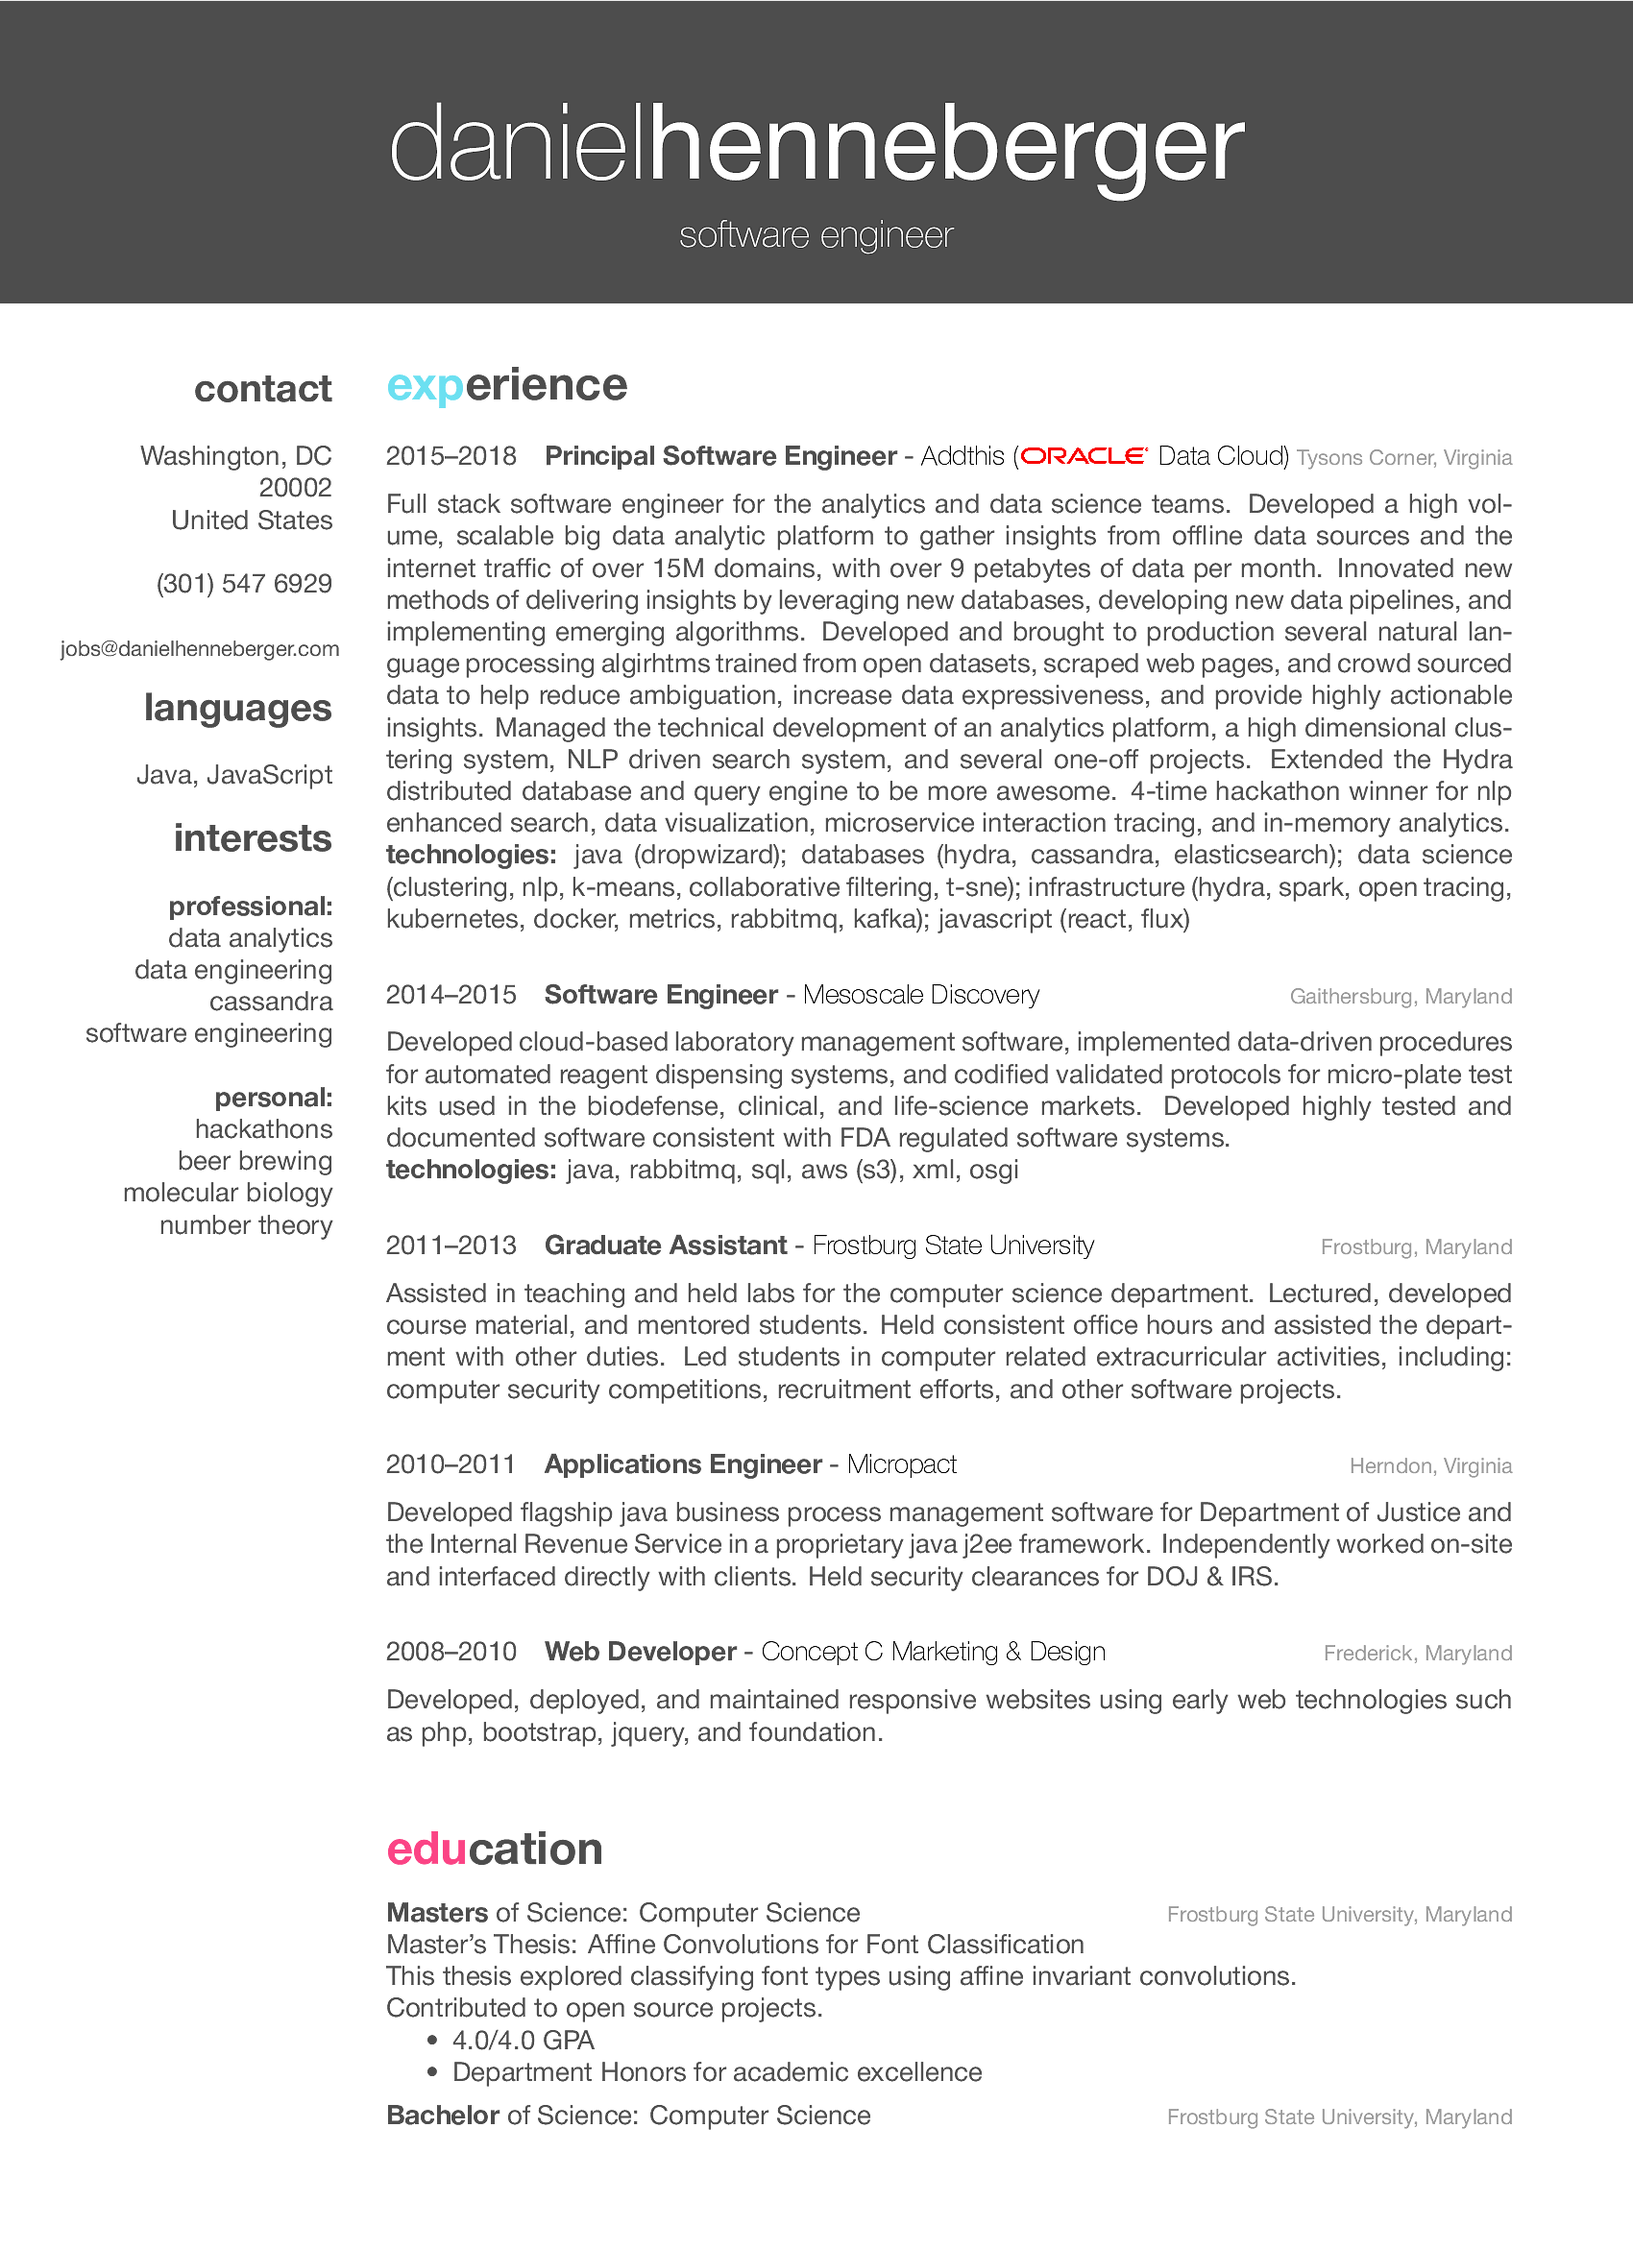
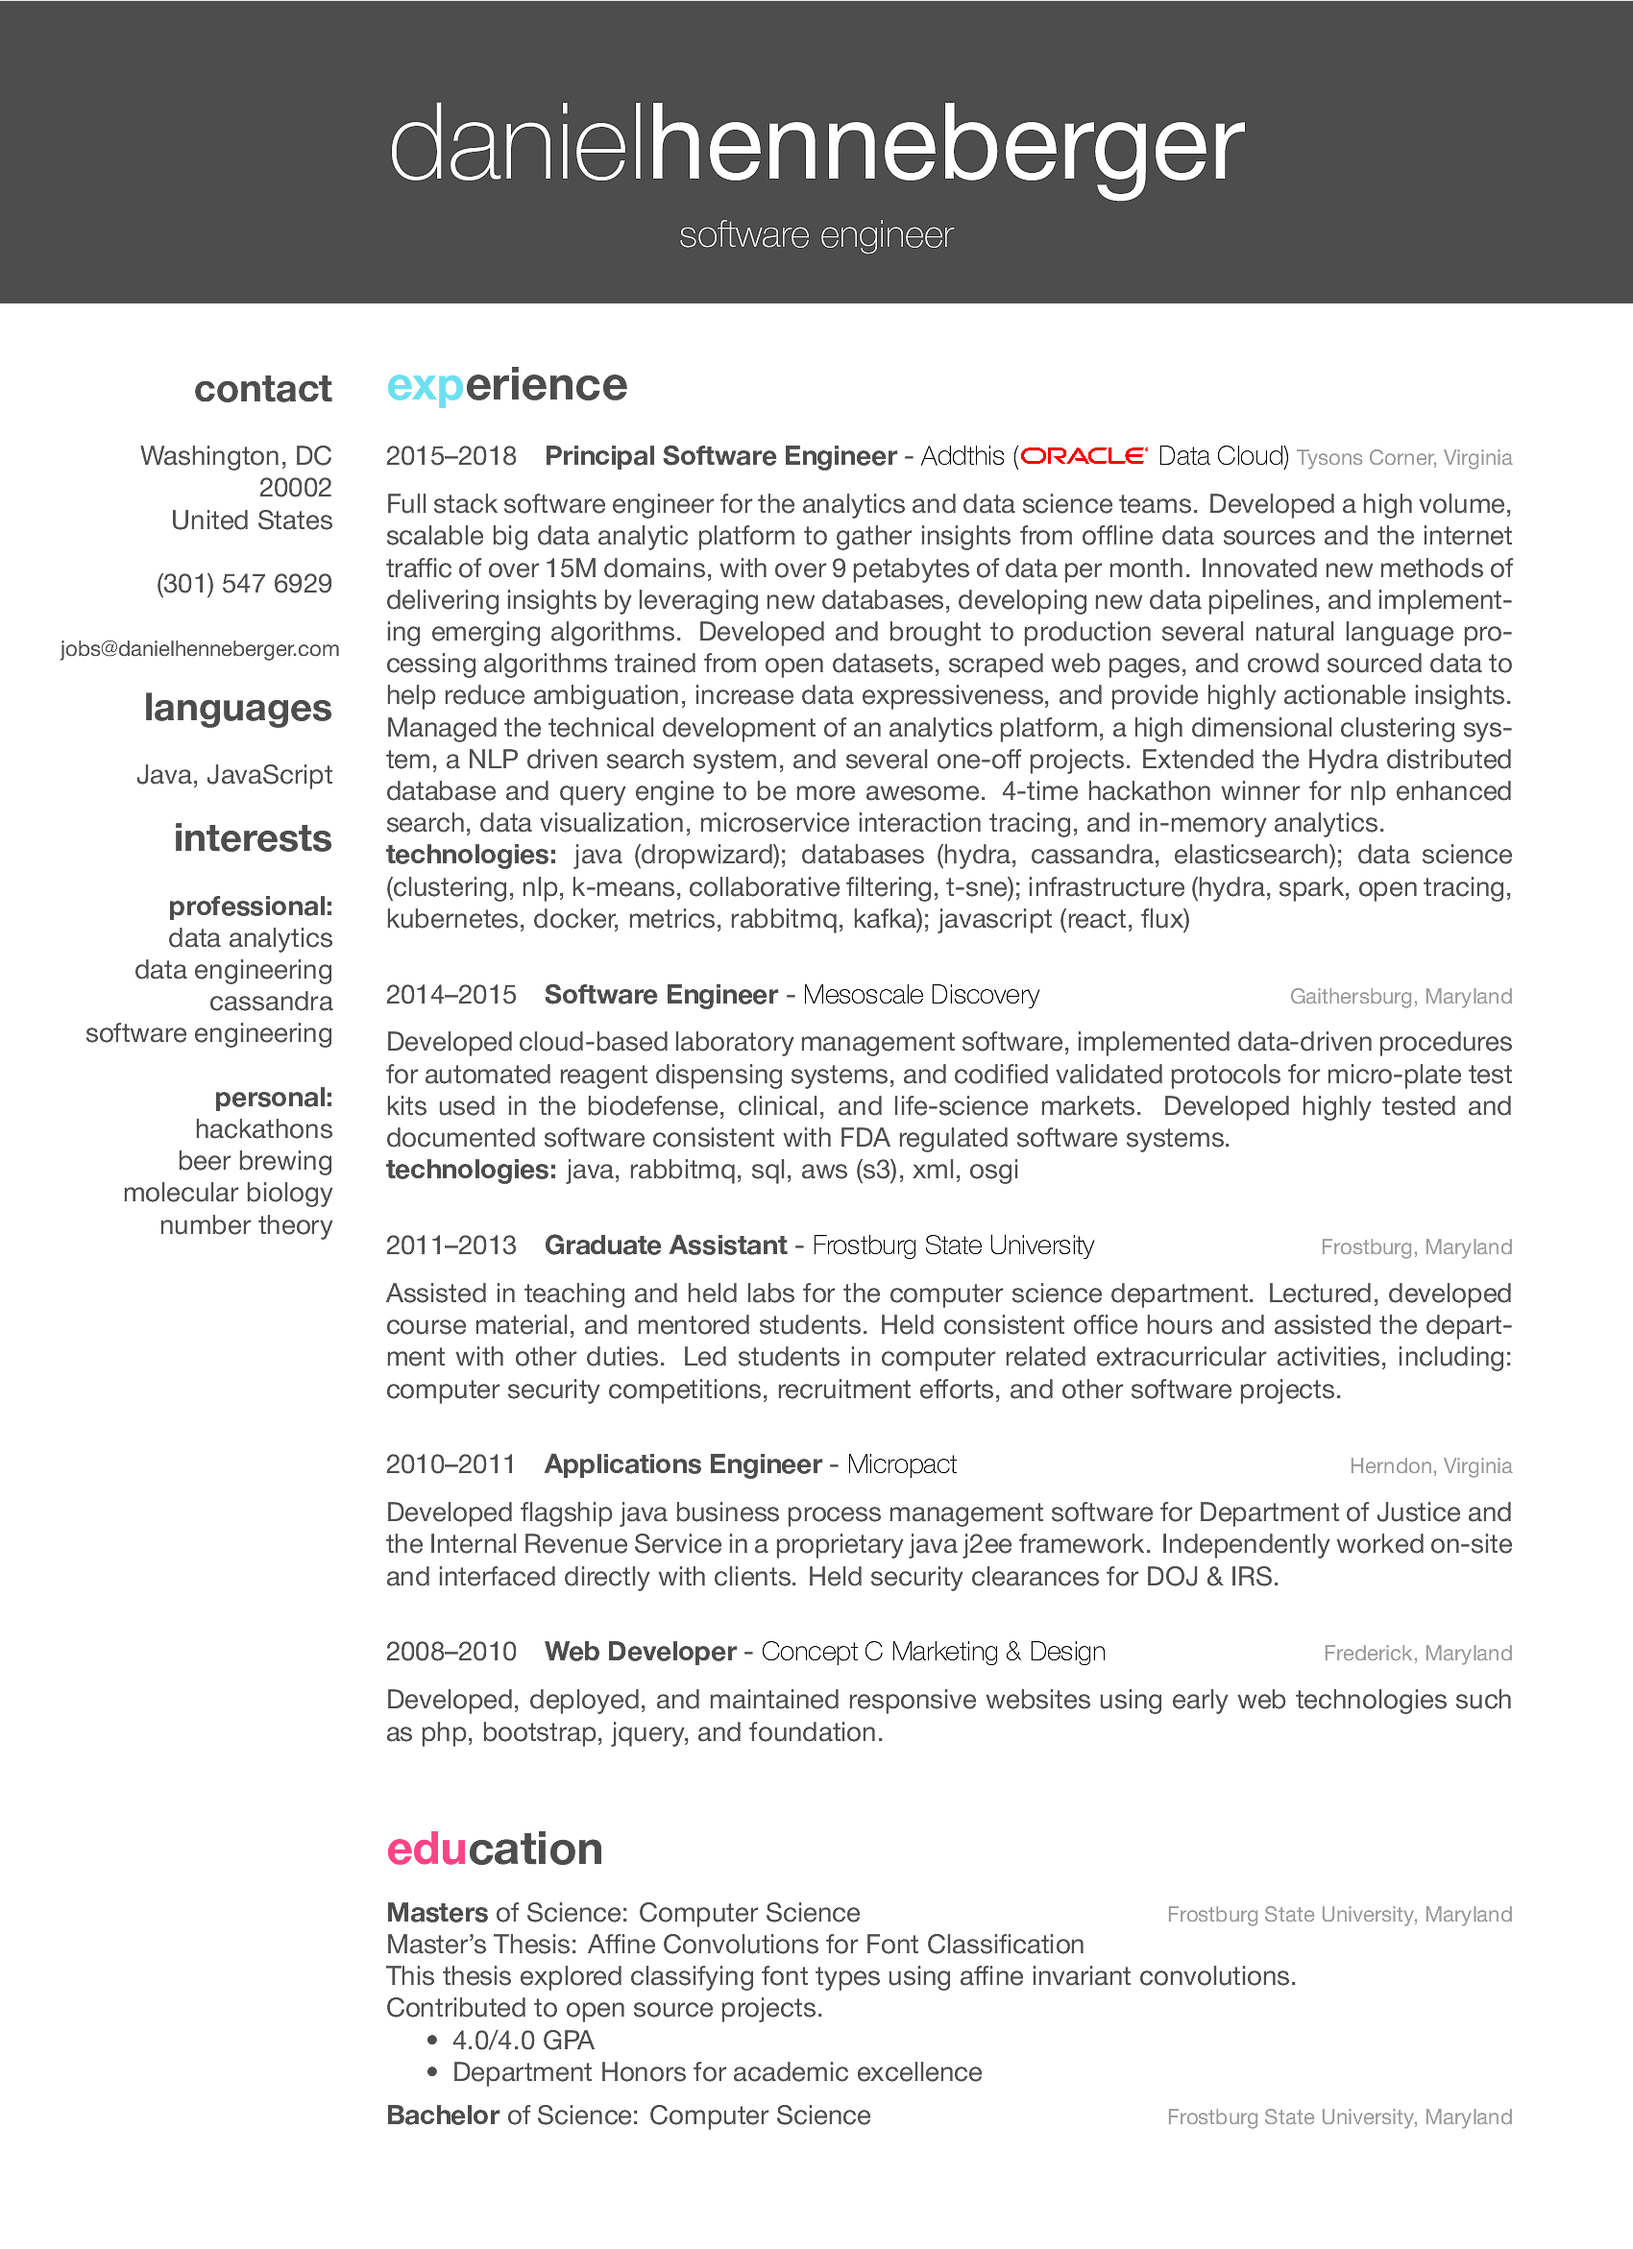
Increase clarity of data science work at Oracle, spelling mistake fixed

Changed region(s): [[0.2182, 0.2182, 0.9353, 0.374]]

diff --git a/cv.tex b/cv.tex
@@ -62,7 +62,7 @@ number theory
 {Tysons Corner, Virginia}
 {Principal Software Engineer}
 {
-	Full stack software engineer for the analytics and data science teams. Developed a high volume, scalable big data analytic platform to gather insights from offline data sources and the internet traffic of over 15M domains, with over 9 petabytes of data per month. Innovated new methods of delivering insights by leveraging new databases, developing new data pipelines, and implementing emerging algorithms. Developed and brought to production several natural language processing algirhtms trained from open datasets, scraped web pages, and crowd sourced data to help reduce ambiguation, increase data expressiveness, and provide highly actionable insights. Managed the technical development of an analytics platform, a high dimensional clustering system, NLP driven search system, and several one-off projects. Extended the Hydra distributed database and query engine to be more awesome. 4-time hackathon winner for nlp enhanced search, data visualization, microservice interaction tracing, and in-memory analytics. \\
+	Full stack software engineer for the analytics and data science teams. Developed a high volume, scalable big data analytic platform to gather insights from offline data sources and the internet traffic of over 15M domains, with over 9 petabytes of data per month. Innovated new methods of delivering insights by leveraging new databases, developing new data pipelines, and implementing emerging algorithms. Developed and brought to production several natural language processing algorithms trained from open datasets, scraped web pages, and crowd sourced data to help reduce ambiguation, increase data expressiveness, and provide highly actionable insights. Managed the technical development of an analytics platform, a high dimensional clustering system, a NLP driven search system, and several one-off projects. Extended the Hydra distributed database and query engine to be more awesome. 4-time hackathon winner for nlp enhanced search, data visualization, microservice interaction tracing, and in-memory analytics. \\
 	\textbf{technologies:} java (dropwizard); databases (hydra, cassandra, elasticsearch); data science (clustering, nlp, k-means, collaborative filtering, t-sne); infrastructure (hydra, spark, open tracing, kubernetes, docker, metrics, rabbitmq, kafka); javascript (react, flux)
 }
 \entry
